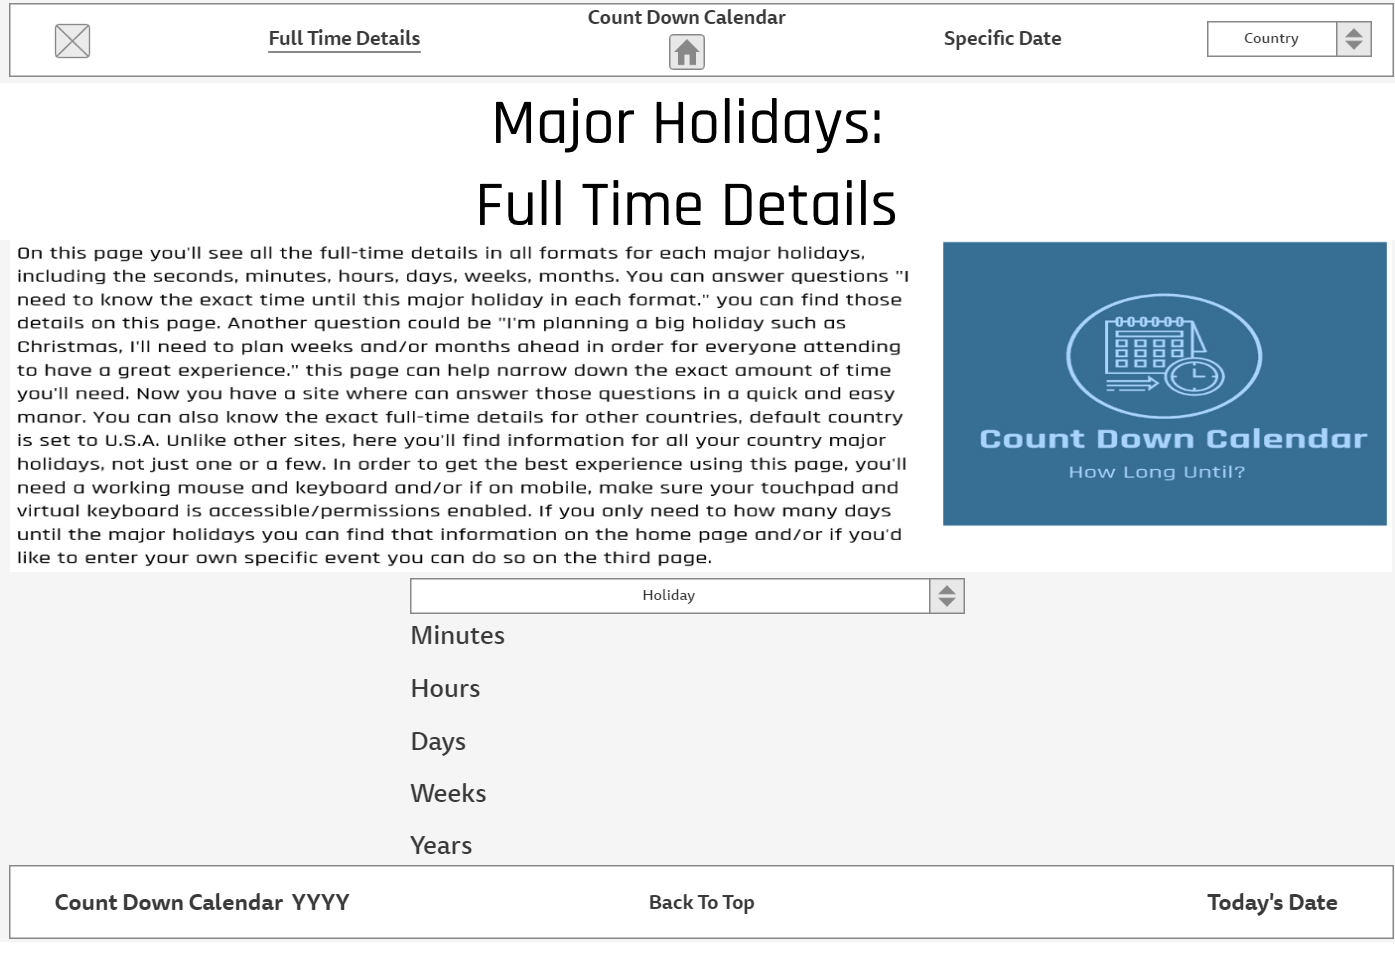
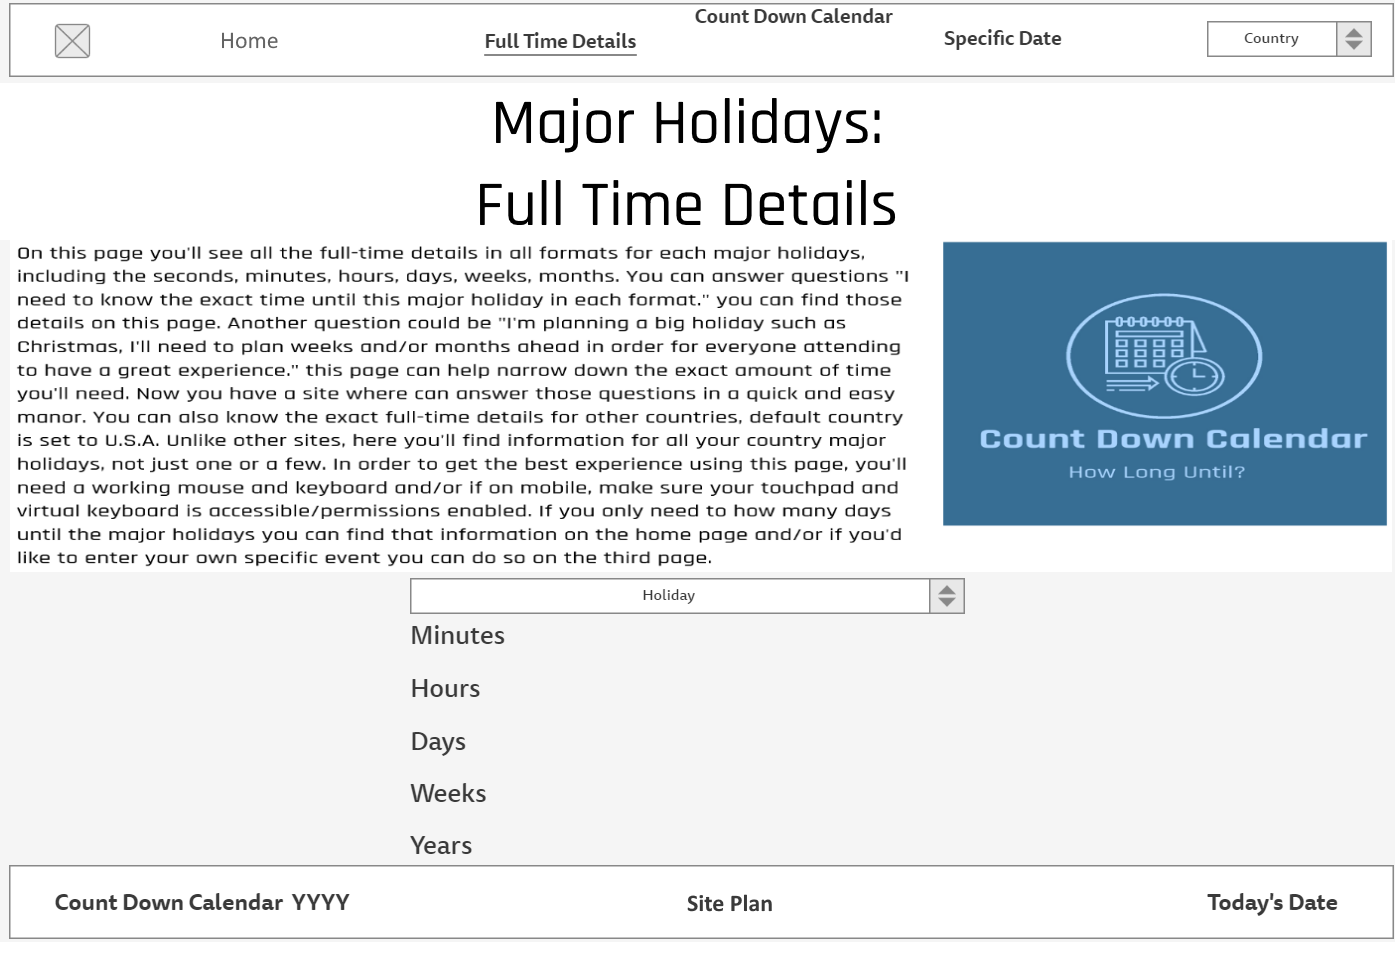
Personal Site Home page

Changed region(s): [[0.3391, 0.0, 0.6473, 0.0605], [0.1541, 0.0303, 0.3082, 0.0605], [0.4624, 0.9384, 0.5548, 0.9687]]

diff --git a/cdc/styles/style.css b/cdc/styles/style.css
@@ -11,33 +11,45 @@ body {
     padding: 0;
 }
 header {
-    background-color:#A8D4FF;
+    background-color:#396E94;
     display: grid;
-    grid-template-columns: 150px auto;
+    grid-template-columns: 1fr 1fr 1fr;
+}
+#cdc-top {
+    font-family: Rajdhani Bold;
+    color: #A8D4FF;
+    text-align: center;
+    grid-column: 2/3;
+    margin-bottom: -75px;
 }
 #cdc-icon {
+    background-color: #A8D4FF;
     width: 80px;
-    padding-top: 8px;
-    justify-self: center;
-    align-self: center;
+    height: 80px;
+    padding: 8px;
+    grid-column: 1/1;
+    grid-row: 2/2;
+    z-index: 1;
 }
 nav {
     display: flex;
-    justify-content: space-around;
+    justify-content: space-evenly;
+    grid-column: 1/4;
+    grid-row: 2/2;
 }
 nav a {
-    color: #396E94;
+    color: #A8D4FF;
     text-align: center;
     text-decoration: none;
     padding: 35px;
 }
 nav a:hover {
-    background-color: #396E94;
-    color: #A8D4FF;
+    background-color: #A8D4FF;
+    color: #396E94;
 }
 nav select {
-    background-color:#A8D4FF;
-    color: #396E94;
+    background-color:#396E94;
+    color: #A8D4FF;
     text-align: center;
     padding: 35px;
 }
@@ -65,28 +77,27 @@ nav select {
     grid-template-columns: repeat(5, 1fr);
 }
 footer {
-    background-color:#A8D4FF;
+    background-color:#396E94;
     display: flex;
-    justify-content: space-around;
+    justify-content: space-evenly;
 }
 
 footer p {
-    color: #396E94;
+    color: #A8D4FF;
     text-align: center;
     text-decoration: none;
     padding: 35px;
 }
-footer p a:hover {
-    text-decoration: underline;
-}
 footer a {
-    color: #396E94;
+    color: #A8D4FF;
     text-align: center;
     text-decoration: none;
     padding: 35px;
 }
 footer a:hover {
+    background-color: #A8D4FF;
     color: #396E94;
+    padding: 35px;
 }
 
 /* CSS full-time-details.html */
@@ -95,7 +106,7 @@ footer a:hover {
     font-family: Rajdhani Medium;
     color: #A8D4FF;
     display: grid;
-    grid-template-columns: (1, 1fr);
+    grid-template-columns: repeat(1, 1fr);
     padding: 25px;
 }
 #holiday-list select {
@@ -115,7 +126,7 @@ footer a:hover {
     font-family: Rajdhani Medium;
     color: #A8D4FF;
     display: grid;
-    grid-template-columns: (1, 1fr);
+    grid-template-columns: repeat(1, 1fr);
     padding: 25px;
 }
 #specific-date input {
@@ -127,4 +138,45 @@ footer a:hover {
     margin-left: 25%;
     margin-right: 25%;
     text-align: left;
+}
+
+
+@media screen and (max-width: 900px) {
+    #cdc-top {
+        margin-bottom: 10px;
+    }
+    nav {
+        flex-direction: column;
+    }
+    nav a {
+        display: block;
+        padding: 15px;
+    }
+    main {
+        font-size: 25px;
+        padding: 10px;
+    }
+    .main-paragraph {
+        width: auto;
+        height: auto;
+    }
+    #holidays {
+        flex-direction: column;
+    }
+    footer {
+        flex-direction: column;
+        margin-top: 25px;
+    }
+    
+    /* CSS full-time-details.html */
+    
+    #holiday-list {
+        flex-direction: column;
+    }
+    
+    /* CSS for specific-date.html */
+    
+    #specific-date {
+        flex-direction: column;
+    }
 }

diff --git a/cdc/full-time-details.html b/cdc/full-time-details.html
@@ -10,16 +10,17 @@
 <body>
     <div id="content">
         <header>
+            <p id="cdc-top">Count Down Calendar</p>
             <a id="cdc-icon" href="index.html">
                 <img src="images/cdc-icon.png" alt="CDC Icon">
             </a>
             <nav>
-                <a href="full-time-details.html"><u>Full Time Details</u></a>
                 <a href="index.html">Home</a>
+                <a href="full-time-details.html"><u>Full Time Details</u></a>
                 <a href="specific-date.html" target="_blank">Specific Date</a>
-                <select id="country" name="user-country" required>
-                    <option value="US">US</option>
-                    <option value="AU">AU</option>
+                <select>
+                    <option value="" disabled selected hidden>US</option>
+                    <option value="country">AU</option>
                   </select>
             </nav>
         </header>
@@ -32,8 +33,9 @@
                   <div class="main-paragraph">On this page you'll see all the full time details in all formats for each major holidays, including the minutes, hours, days, weeks, months. You can answer questions "I need to know the exact time until this major holiday in each format." you can find those details on this page. Another question could be "I'm planning a big holiday such as Christmas, I'll need to plan weeks and/or months ahead in order for everyone attending to have a great experience." this page can help narrow down the exact amount of time you'll need. Now you have a site where can answer those questions in a quick and easy manor. You can also know the exact full time details for other countries, default country is set to U.S.A. Unlike other sites, here you'll find information for all your country major holidays, not just one or a few. In order to get the best experience using this page, you'll need a working mouse and keyboard and/or if on mobile, make sure your touchpad and virtual keyboard is accessible/permissions enabled. If you only need to how many days until the major holidays you can find that information on the home page and/or if you'd like to enter your own specific event you can do so on the third page.</div>
               </div>
             <div id="holiday-list">
-                <select name="holidays" required>
-                    <option value="Holiday">Holiday</option>
+                <select name="holidays">
+                    <option value="" disabled selected hidden>Holiday</option>
+                    <option value="holiday">Christmas</option>
                   </select>
                   <p>Minutes:</p>
                   <p>Hours:</p>
@@ -48,5 +50,6 @@
             <p><a href="site-plan.html" target="_blank">Site Plan</a></p>
             <p id="today">Today's Date</p>
         </footer>
+    </div>
 </body>
 </html>

diff --git a/cdc/specific-date.html b/cdc/specific-date.html
@@ -10,17 +10,18 @@
 <body>
     <div id="content">
         <header>
+          <p id="cdc-top">Count Down Calendar</p>
             <a id="cdc-icon" href="index.html">
                 <img src="images/cdc-icon.png" alt="CDC Icon">
             </a>
             <nav>
-                <a href="full-time-details.html" target="_blank">Full Time Details</a>
                 <a href="index.html">Home</a>
+                <a href="full-time-details.html" target="_blank">Full Time Details</a>
                 <a href="specific-date.html"><u>Specific Date</u></a>
-                <select id="country" name="user-country" required>
-                    <option value="US">US</option>
-                    <option value="AU">AU</option>
-                  </select>
+                <select>
+                  <option value="" disabled selected hidden>US</option>
+                  <option value="country">AU</option>
+                </select>
                 </nav>
         </header>
         <main>
@@ -32,7 +33,7 @@
                   <div class="main-paragraph">If you need to specify your own date, you can do so using the quick and easy date format Month, Day, Year. Now you'll know exactly how many days, weeks, or years you have until the specific event. A common question for this use could be "There's a dinner party I need to plan and need to know the exact time details to order the right number of items, food, service, etc. for the event." Here you can use and share such information for whenever and whoever you need. You can also input any date you want up to 2050 and/or check other dates of the past down from 1972. Unlike other sites you'll have access to fast information for the exact time details of the specific event in format of seconds, minutes, hours, days, weeks, years. In order to get the best experience using this page, you'll need a working mouse and keyboard and/or if on mobile, make sure your touchpad and virtual keyboard is accessible/permissions enabled. If you only need to how many days for the major holidays you can find that information on the home page and/or if you want to know the full time details of the major holidays you can find that information on the second page.</div>
               </div>
               <div id="specific-date">
-                <input type="date" name="date" placeholder="mm/dd/yyyy">
+                <input type="date" name="date">
                 <p>Minutes:</p>
                 <p>Hours:</p>
                 <p>Days:</p>
@@ -46,5 +47,6 @@
             <p><a href="site-plan.html" target="_blank">Site Plan</a></p>
             <p id="today">Today's Date</p>
         </footer>
+    </div>
 </body>
 </html>

diff --git a/cdc/index.html b/cdc/index.html
@@ -10,16 +10,17 @@
 <body>
     <div id="content">
         <header>
+            <p id="cdc-top">Count Down Calendar</p>
             <a id="cdc-icon" href="index.html">
                 <img src="images/cdc-icon.png" alt="CDC Icon">
             </a>
             <nav>
-                <a href="full-time-details.html" target="_blank">Full Time Details</a>
                 <a href="index.html"><u>Home</u></a>
+                <a href="full-time-details.html" target="_blank">Full Time Details</a>
                 <a href="specific-date.html" target="specific-date.html">Specific Date</a>
-                <select id="country" name="user-country" required>
-                    <option value="US">US</option>
-                    <option value="AU">AU</option>
+                <select>
+                    <option value="" disabled selected hidden>US</option>
+                    <option value="country">AU</option>
                   </select>
             </nav>
         </header>
@@ -43,5 +44,6 @@
             <p><a href="site-plan.html" target="_blank">Site Plan</a></p>
             <p id="today">Today's Date</p>
         </footer>
+    </div>
 </body>
 </html>
